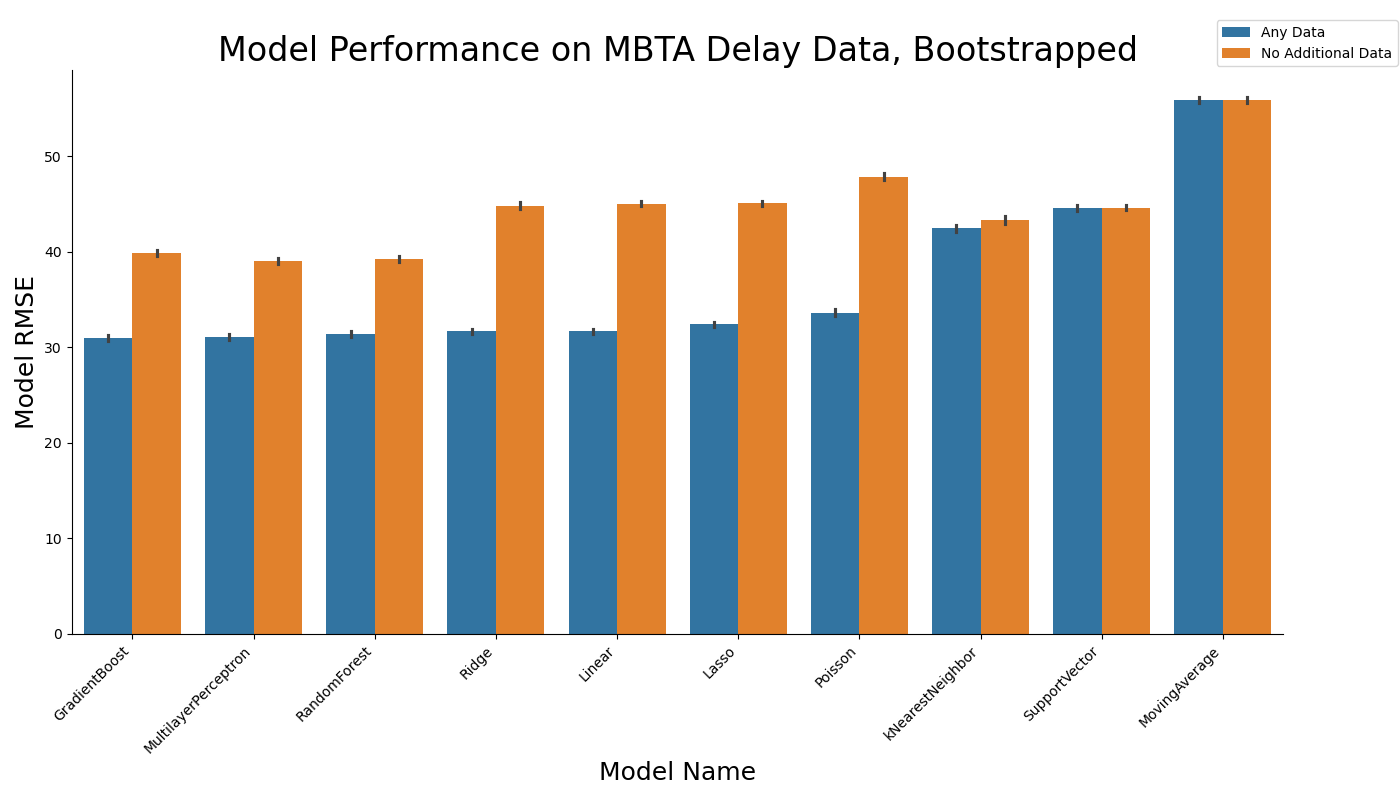
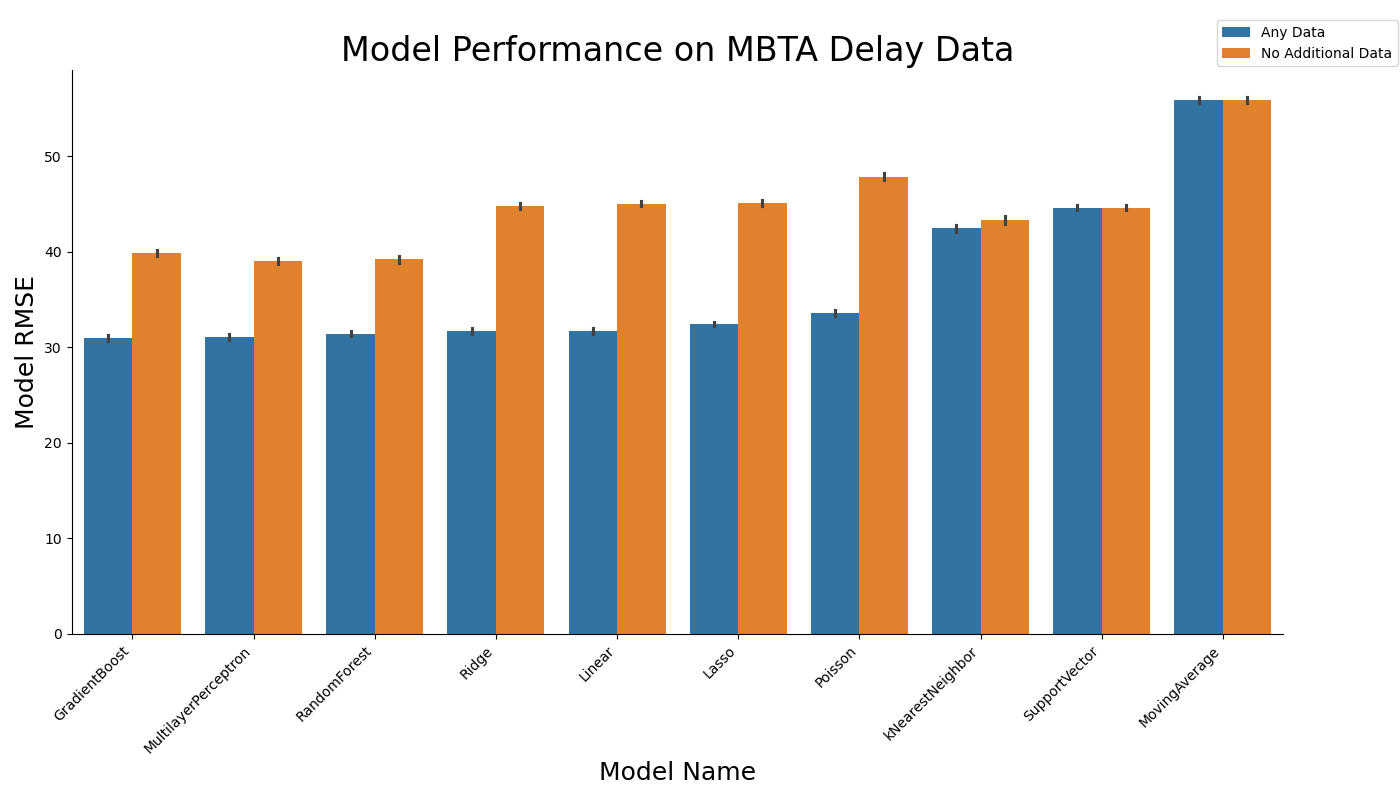
fixed models.py typo, time to rerun bootstrap (oof)

Changed region(s): [[0.1536, 0.0312, 0.7986, 0.0938]]

diff --git a/scripts/analysis_scripts/bootstrap_display.py b/scripts/analysis_scripts/bootstrap_display.py
@@ -2,6 +2,7 @@ import pandas as pd
 import numpy as np
 import matplotlib.pyplot as plt
 import seaborn as sns
+from scipy.stats import sem, t
 
 model_list = [
     "RandomForest",
@@ -17,7 +18,7 @@ model_list = [
 ]
 
 # saves data recieved to bar plot
-def display_data(data,title,xlabel,ylabel,name):
+def display_ranking_data(data,title,xlabel,ylabel,name):
     # compute order
     mean_values = {x:[0.0,0.0] for x in model_list}
     for i in range(len(data)):
@@ -42,12 +43,47 @@ def display_data(data,title,xlabel,ylabel,name):
     plt.tight_layout()
     plt.savefig(f"../../output/results/{name}_bootstrapped.png")
 
+def display_improvement_data(data,name):
+    plt.figure(figsize=(14,8))
+    sns.barplot(data,x='Data',y='RMSE',estimator=np.mean,errorbar=("ci",95))
+    sns.despine()
+    plt.title(f"Model Improvement Given Additional Data", fontsize=24)
+    plt.xlabel(f"Additional Data", fontsize=18)
+    plt.ylabel(f"Percentage Decrease in RMSE", fontsize=18)
+    plt.xticks(rotation=45, ha='right')
+    plt.tight_layout()
+    plt.savefig(f"../../output/results/{name}_improvement.png")
+
+    # compute CIs
+    grouped_data = data.groupby('Data')['RMSE']
+    summary = grouped_data.agg(['mean', 'count', 'std']).reset_index()
+    summary['sem'] = summary['std'] / np.sqrt(summary['count'])  # Standard error
+    confidence = 0.95
+    summary['t_crit'] = summary['count'].apply(lambda n: t.ppf((1 + confidence) / 2, df=n-1))
+    summary['ci95'] = summary['t_crit'] * summary['sem']
+    summary['ci_lower'] = summary['mean'] - summary['ci95']
+    summary['ci_upper'] = summary['mean'] + summary['ci95']
+    
+    # output CIs
+    for i in range(len(summary)):
+        print(f"{summary['Data'].iloc[i]}: mean {summary['mean'].iloc[i]}, 95% CI [{summary['ci_lower'].iloc[i]}, {summary['ci_upper'].iloc[i]}]")
+
 # run on both gated station entry data and delay data
 def main():
     gse_data = pd.read_csv("../../data/intermediate_data/Bootstrap_gse.csv")
     delay_data = pd.read_csv("../../data/intermediate_data/Bootstrap_delay.csv")
-    display_data(gse_data,"Model Performance on Gated Station Entry Data, Bootstrapped","Model Name","Model RMSE","gse_data")
-    display_data(delay_data,"Model Performance on MBTA Delay Data, Bootstrapped","Model Name","Model RMSE","delay_data")
+
+    gse_data_ranking = gse_data[((gse_data['Data'] == 'Any Data') | (gse_data['Data'] == 'No Additional Data'))]
+    delay_data_ranking = delay_data[((delay_data['Data'] == 'Any Data') | (delay_data['Data'] == 'No Additional Data'))]
+    display_ranking_data(gse_data_ranking,"Model Performance on Gated Station Entry Data","Model Name","Model RMSE","gse_data")
+    display_ranking_data(delay_data_ranking,"Model Performance on MBTA Delay Data","Model Name","Model RMSE","delay_data")
+
+    gse_data_improvement = gse_data[((gse_data['Data'] != 'Any Data') & (gse_data['Data'] != 'No Additional Data'))]
+    delay_data_improvement = delay_data[((delay_data['Data'] != 'Any Data') & (delay_data['Data'] != 'No Additional Data'))]
+    print("GSE data:")
+    display_improvement_data(gse_data_improvement,"gse_data")
+    print("Delay data:")
+    display_improvement_data(delay_data_improvement,"delay_data")
 
 if __name__ == "__main__":
     main()

diff --git a/scripts/analysis_scripts/models.py b/scripts/analysis_scripts/models.py
@@ -322,9 +322,9 @@ def main():
 
         delay_rmse_no_ad = delay_rmse[0]
         delay_rmse_ad = min(delay_rmse)
-        delay_rmse_day_of_week = min(gse_rmse[1:5])
-        delay_rmse_season = min(gse_rmse[5:9])
-        delay_rmse_weather = min(gse_rmse[9:10])
+        delay_rmse_day_of_week = min(delay_rmse[1:5])
+        delay_rmse_season = min(delay_rmse[5:9])
+        delay_rmse_weather = min(delay_rmse[9:10])
         delay_improvement_ad = 100-100*delay_rmse_ad/delay_rmse_no_ad
         delay_improvement_day_of_week = 100-100*delay_rmse_day_of_week/delay_rmse_no_ad
         delay_improvement_season = 100-100*delay_rmse_season/delay_rmse_no_ad

diff --git a/scripts/analysis_scripts/bootstrapping.py b/scripts/analysis_scripts/bootstrapping.py
@@ -24,7 +24,7 @@ def run_model(index, model, seed):
 
 def compute_raw_results():
     run_count = 1000
-    worker_count = 16
+    worker_count = 32
     check_count = 5
     results = np.zeros((run_count, 12))
     start_time = time.perf_counter()
